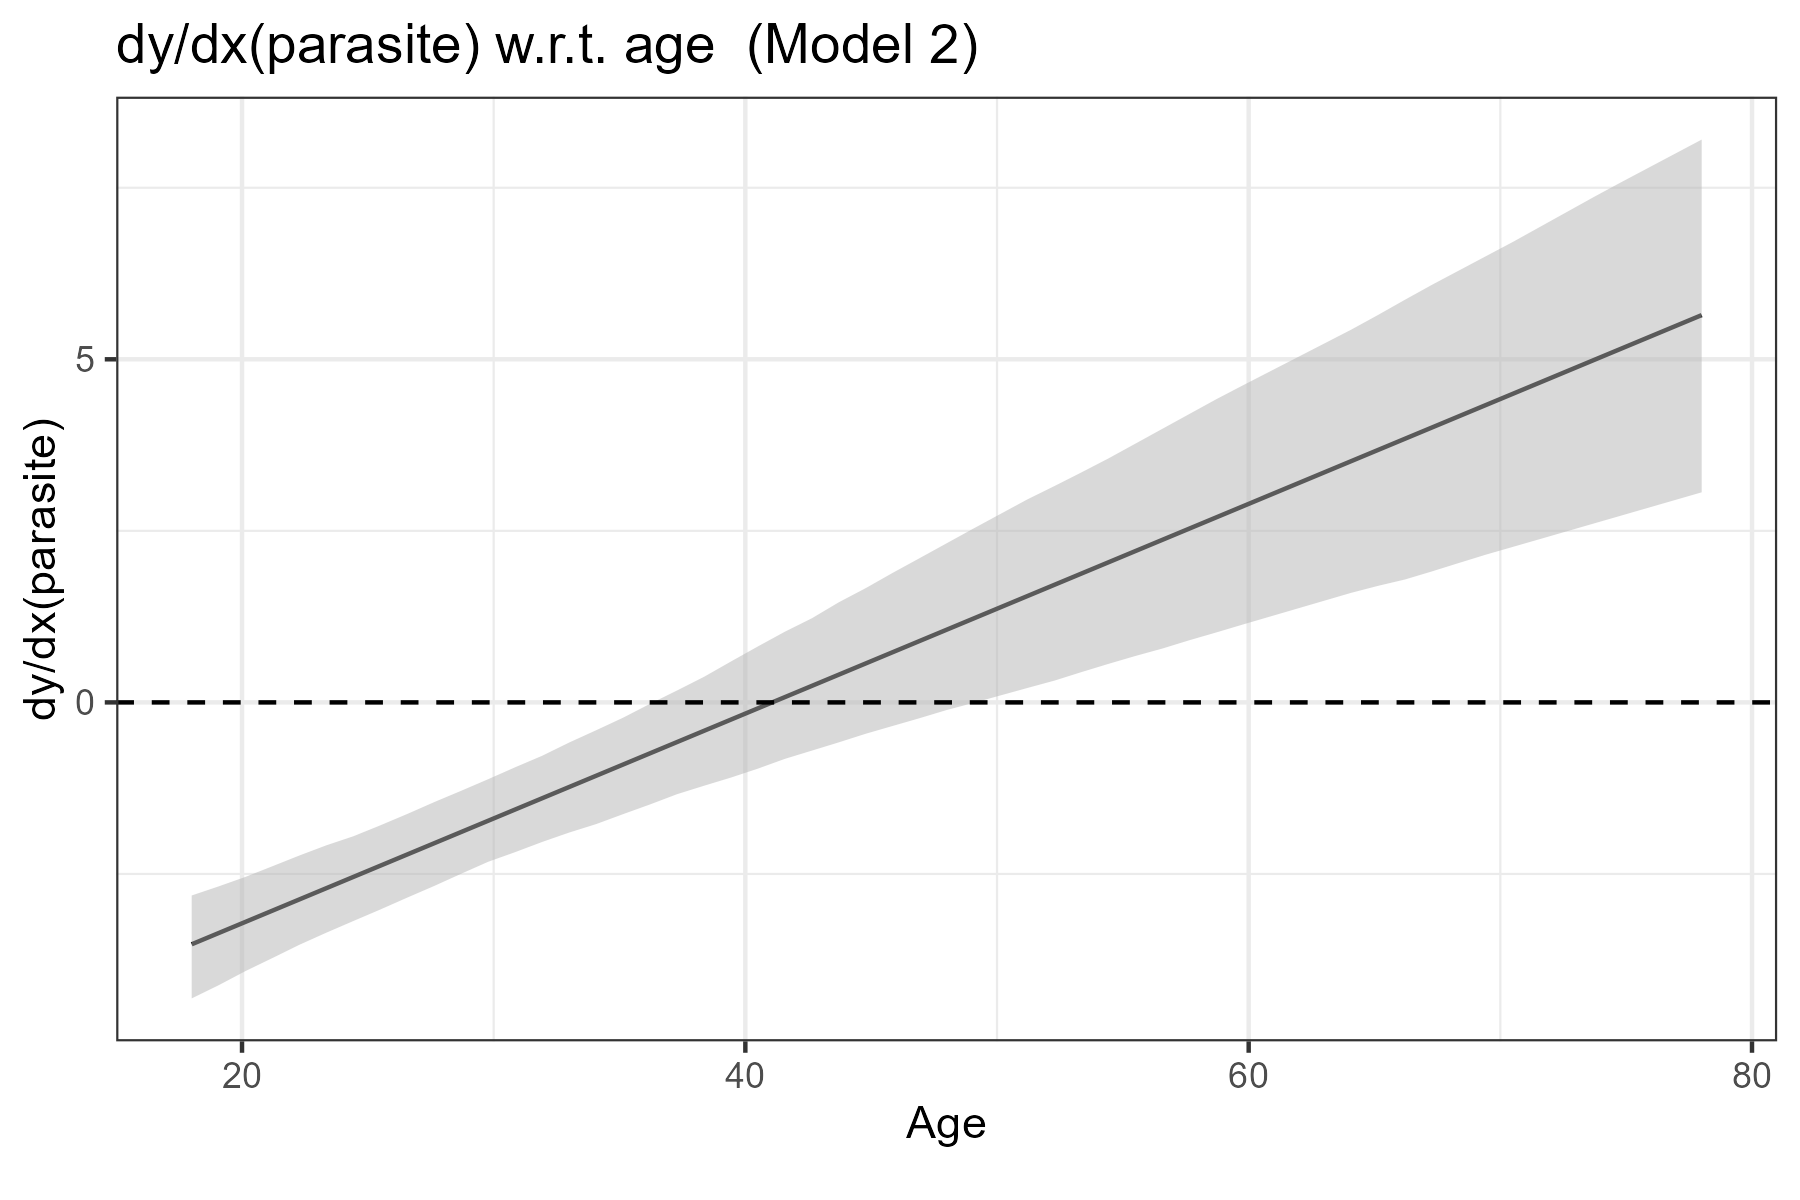
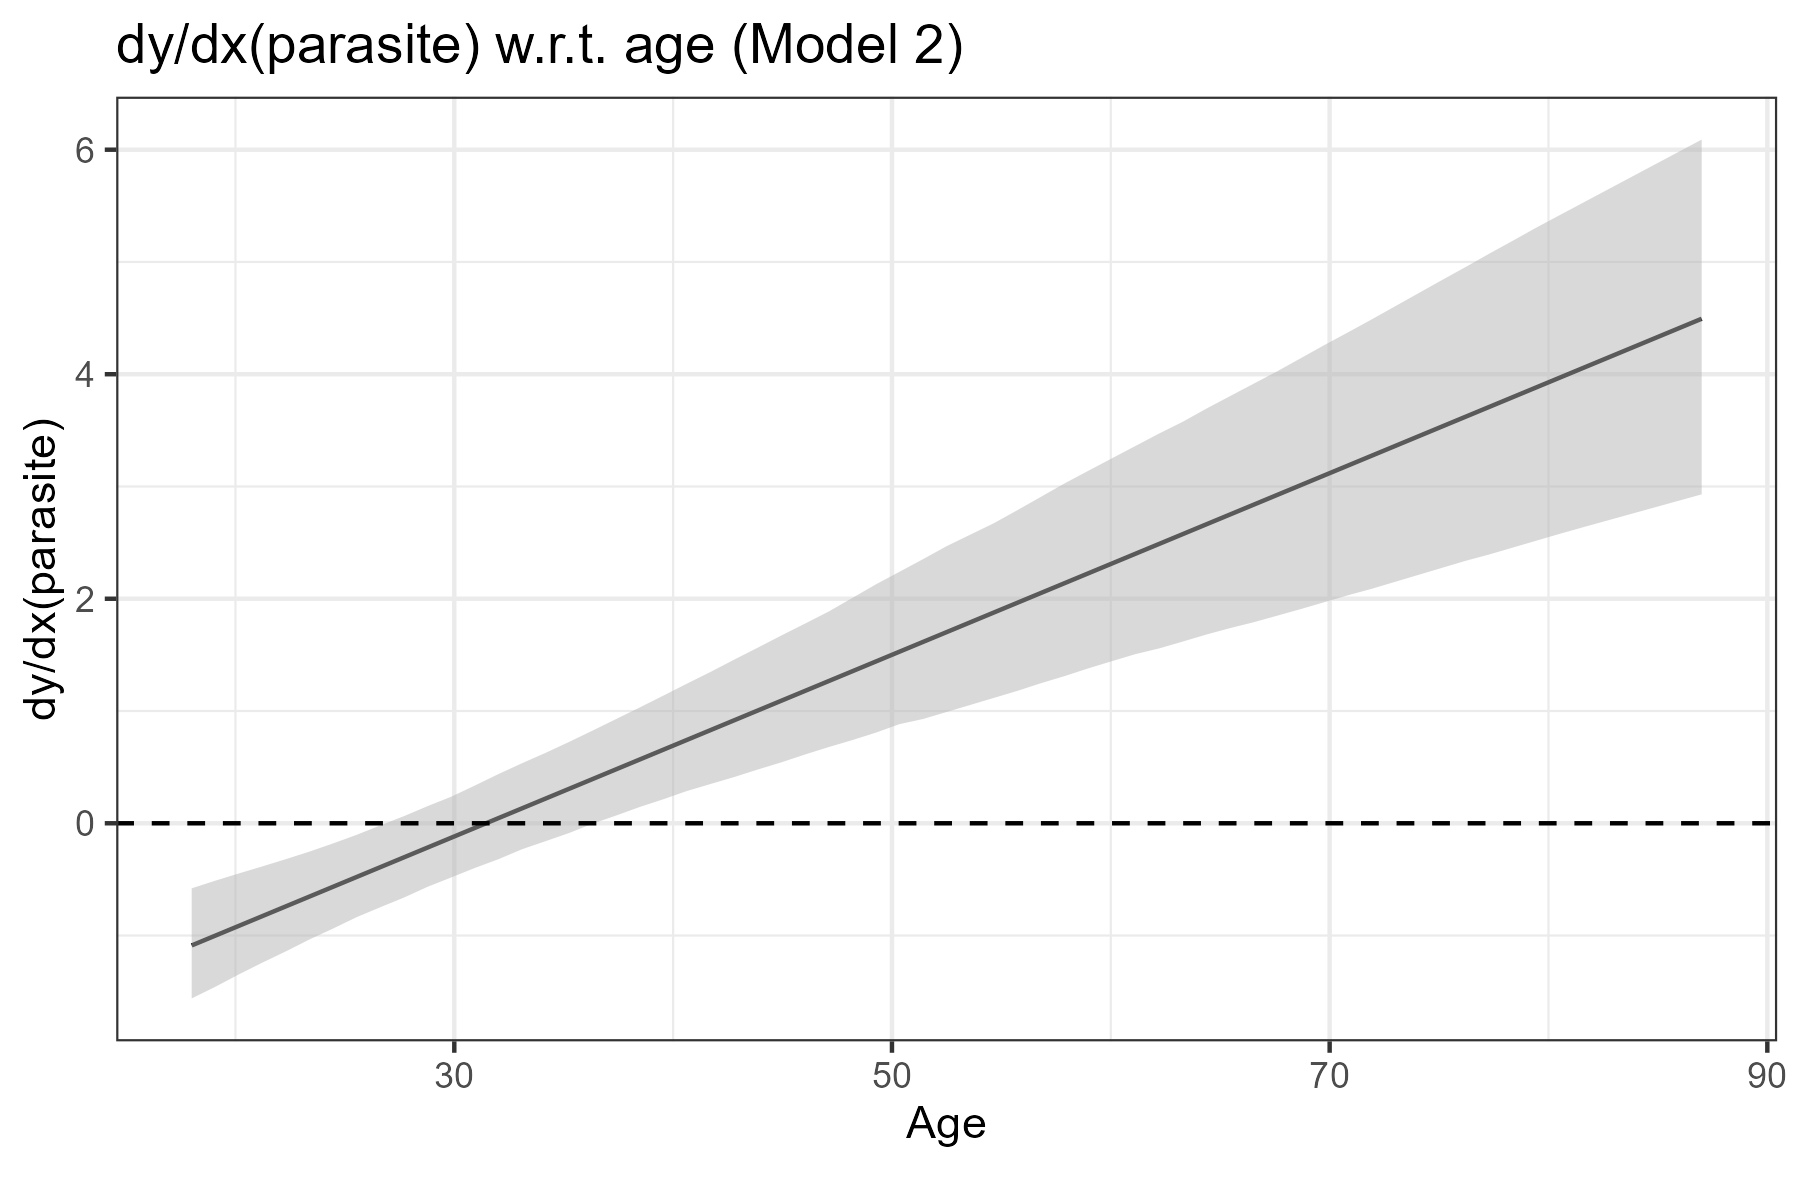
update

diff --git a/out/week1/regs.html b/out/week1/regs.html
@@ -3,25 +3,25 @@
 <tr><td></td><td colspan="3" style="border-bottom: 1px solid black"></td></tr>
 <tr><td style="text-align:left"></td><td colspan="3">trad</td></tr>
 <tr><td style="text-align:left"></td><td>(1)</td><td>(2)</td><td>(3)</td></tr>
-<tr><td colspan="4" style="border-bottom: 1px solid black"></td></tr><tr><td style="text-align:left">parasite</td><td>1.365<sup>***</sup></td><td>-6.280<sup>***</sup></td><td>1.060<sup>***</sup></td></tr>
-<tr><td style="text-align:left"></td><td>(0.068)</td><td>(0.745)</td><td>(0.278)</td></tr>
+<tr><td colspan="4" style="border-bottom: 1px solid black"></td></tr><tr><td style="text-align:left">parasite</td><td>1.365<sup>***</sup></td><td>-6.280<sup>***</sup></td><td>-2.509<sup>***</sup></td></tr>
+<tr><td style="text-align:left"></td><td>(0.068)</td><td>(0.745)</td><td>(0.453)</td></tr>
 <tr><td style="text-align:left"></td><td></td><td></td><td></td></tr>
-<tr><td style="text-align:left">age</td><td>0.019<sup>***</sup></td><td>-0.014<sup>***</sup></td><td>0.012<sup>***</sup></td></tr>
-<tr><td style="text-align:left"></td><td>(0.002)</td><td>(0.003)</td><td>(0.004)</td></tr>
+<tr><td style="text-align:left">age</td><td>0.019<sup>***</sup></td><td>-0.014<sup>***</sup></td><td>-0.007<sup>***</sup></td></tr>
+<tr><td style="text-align:left"></td><td>(0.002)</td><td>(0.003)</td><td>(0.003)</td></tr>
 <tr><td style="text-align:left"></td><td></td><td></td><td></td></tr>
-<tr><td style="text-align:left">ismale</td><td>-0.191<sup>***</sup></td><td>-0.040</td><td>-0.191<sup>***</sup></td></tr>
-<tr><td style="text-align:left"></td><td>(0.020)</td><td>(0.049)</td><td>(0.052)</td></tr>
+<tr><td style="text-align:left">ismale</td><td>-0.191<sup>***</sup></td><td>-0.040</td><td>-0.197<sup>***</sup></td></tr>
+<tr><td style="text-align:left"></td><td>(0.020)</td><td>(0.049)</td><td>(0.036)</td></tr>
 <tr><td style="text-align:left"></td><td></td><td></td><td></td></tr>
-<tr><td style="text-align:left">parasite:age</td><td>-0.028<sup>***</sup></td><td>0.153<sup>***</sup></td><td>-0.011</td></tr>
-<tr><td style="text-align:left"></td><td>(0.002)</td><td>(0.025)</td><td>(0.009)</td></tr>
+<tr><td style="text-align:left">parasite:age</td><td>-0.028<sup>***</sup></td><td>0.153<sup>***</sup></td><td>0.080<sup>***</sup></td></tr>
+<tr><td style="text-align:left"></td><td>(0.002)</td><td>(0.025)</td><td>(0.014)</td></tr>
 <tr><td style="text-align:left"></td><td></td><td></td><td></td></tr>
-<tr><td style="text-align:left">Constant</td><td>1.315<sup>***</sup></td><td>2.505<sup>***</sup></td><td>1.358<sup>***</sup></td></tr>
-<tr><td style="text-align:left"></td><td>(0.047)</td><td>(0.091)</td><td>(0.128)</td></tr>
+<tr><td style="text-align:left">Constant</td><td>1.315<sup>***</sup></td><td>2.505<sup>***</sup></td><td>2.284<sup>***</sup></td></tr>
+<tr><td style="text-align:left"></td><td>(0.047)</td><td>(0.091)</td><td>(0.088)</td></tr>
 <tr><td style="text-align:left"></td><td></td><td></td><td></td></tr>
-<tr><td colspan="4" style="border-bottom: 1px solid black"></td></tr><tr><td style="text-align:left">Observations</td><td>11,501</td><td>1,595</td><td>1,572</td></tr>
-<tr><td style="text-align:left">R<sup>2</sup></td><td>0.065</td><td>0.054</td><td>0.047</td></tr>
-<tr><td style="text-align:left">Adjusted R<sup>2</sup></td><td>0.065</td><td>0.052</td><td>0.045</td></tr>
-<tr><td style="text-align:left">Residual Std. Error</td><td>1.074 (df = 11496)</td><td>0.926 (df = 1590)</td><td>1.011 (df = 1567)</td></tr>
-<tr><td style="text-align:left">F Statistic</td><td>201.212<sup>***</sup> (df = 4; 11496)</td><td>22.698<sup>***</sup> (df = 4; 1590)</td><td>19.370<sup>***</sup> (df = 4; 1567)</td></tr>
+<tr><td colspan="4" style="border-bottom: 1px solid black"></td></tr><tr><td style="text-align:left">Observations</td><td>11,501</td><td>1,595</td><td>3,024</td></tr>
+<tr><td style="text-align:left">R<sup>2</sup></td><td>0.065</td><td>0.054</td><td>0.029</td></tr>
+<tr><td style="text-align:left">Adjusted R<sup>2</sup></td><td>0.065</td><td>0.052</td><td>0.028</td></tr>
+<tr><td style="text-align:left">Residual Std. Error</td><td>1.074 (df = 11496)</td><td>0.926 (df = 1590)</td><td>0.957 (df = 3019)</td></tr>
+<tr><td style="text-align:left">F Statistic</td><td>201.212<sup>***</sup> (df = 4; 11496)</td><td>22.698<sup>***</sup> (df = 4; 1590)</td><td>22.783<sup>***</sup> (df = 4; 3019)</td></tr>
 <tr><td colspan="4" style="border-bottom: 1px solid black"></td></tr><tr><td style="text-align:left"><em>Note:</em></td><td colspan="3" style="text-align:right"><sup>*</sup>p<0.1; <sup>**</sup>p<0.05; <sup>***</sup>p<0.01</td></tr>
 </table>
